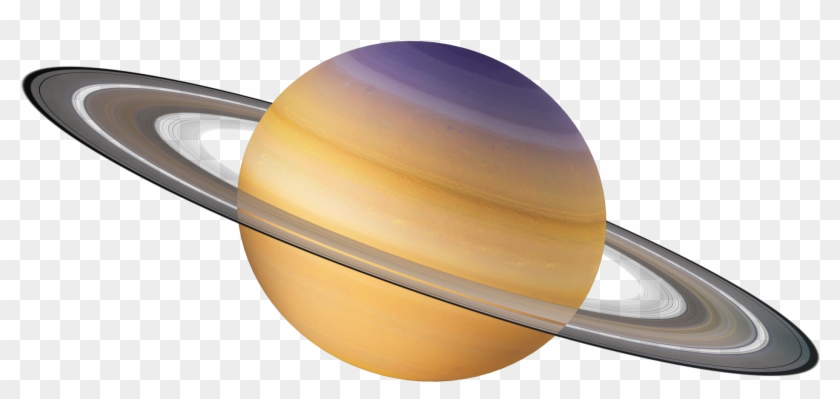
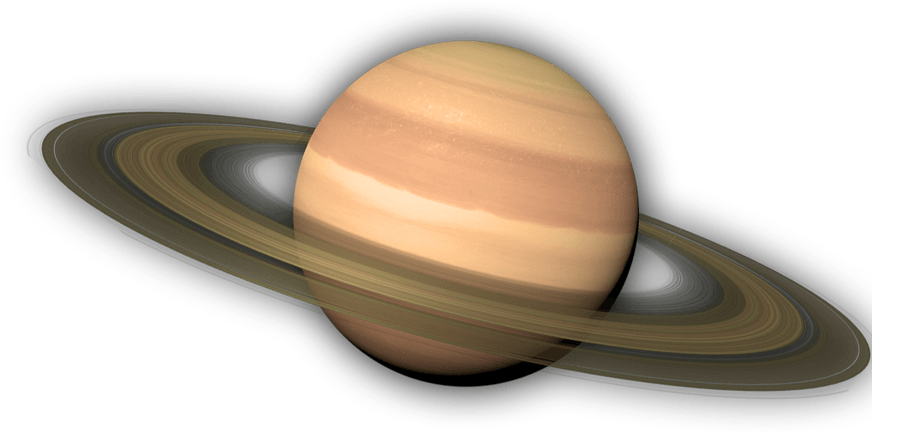
changed planets pictures links, changed Saturn img with png type

diff --git a/Mini_Project_Solar_System/index.html b/Mini_Project_Solar_System/index.html
@@ -149,7 +149,7 @@
                                         font-weight: bold;`;
 
         image.style.cssText = `display : inline; width: 350px;`;
-        image.src = `https://digiator42.github.io/Mini_Project_Solar_System/${selected_planet}.png`;                                  
+        image.src = `${selected_planet}.png`;                                  
 
         let weight = (input.value * selected_planet_value).toFixed(2);
         div_div_p.innerHTML = `The weight of the object on ${selected_planet}`;
